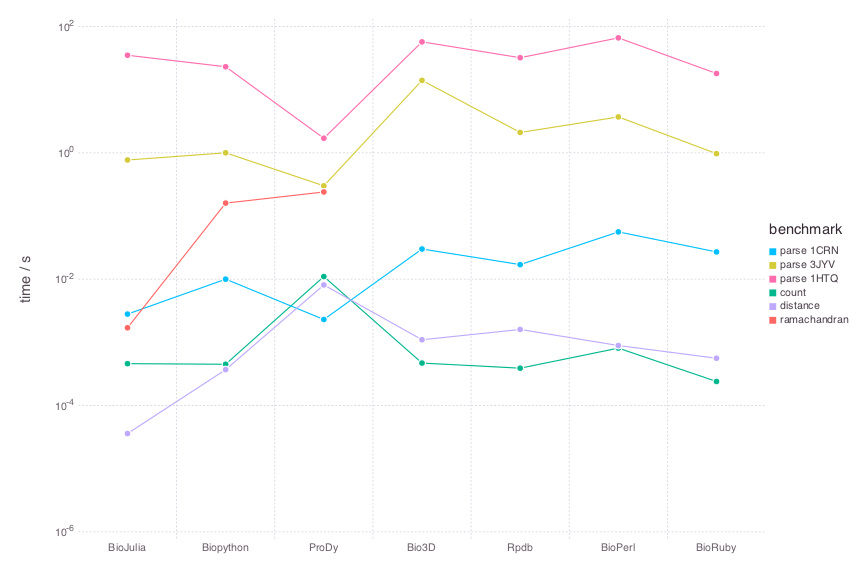
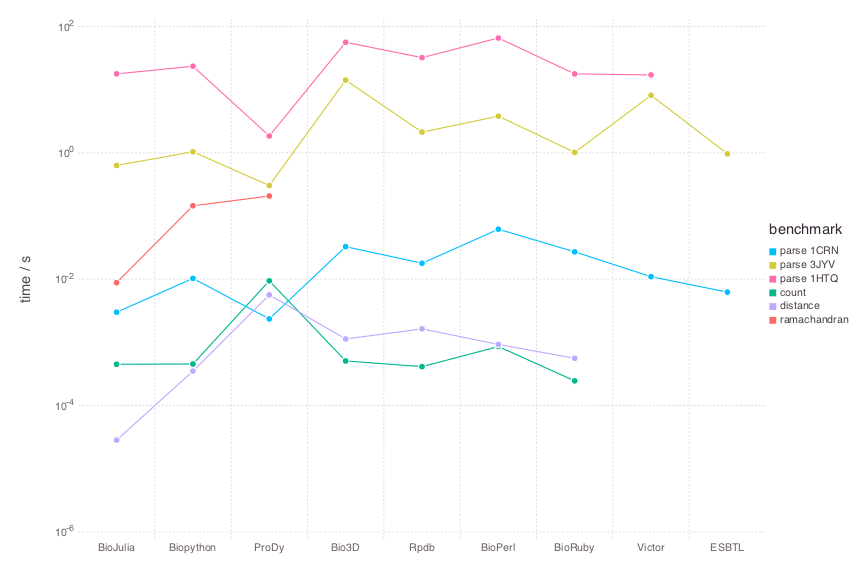
Victor and ESBTL parsing; tools dir; better automation

diff --git a/ESBTL/parse.cc b/ESBTL/parse.cc
@@ -1,0 +1,18 @@
+// Benchmark the parsing of a PDB file given as an argument
+
+#include <ESBTL/default.h>
+#include <iostream>
+#include <time.h>
+
+int main( int argc, char* argv[] ) {
+    std::string pdb_filepath = argv[1];
+    std::cout.setstate(std::ios_base::failbit);
+    clock_t tStart = clock();
+    ESBTL::PDB_line_selector sel;
+    std::vector<ESBTL::Default_system> systems;
+    ESBTL::All_atom_system_builder<ESBTL::Default_system> builder(systems, sel.max_nb_systems());
+    ESBTL::read_a_pdb_file(pdb_filepath, sel, builder, ESBTL::Accept_none_occupancy_policy<ESBTL::PDB::Line_format<> >());
+    clock_t tFinish = clock();
+    std::cout.clear();
+    printf("%.6f\n", (double)(tFinish - tStart)/CLOCKS_PER_SEC);
+}

diff --git a/Victor/parse.cc b/Victor/parse.cc
@@ -1,0 +1,22 @@
+// Benchmark the parsing of a PDB file given as an argument
+
+#include <PdbLoader.h>
+#include <Protein.h>
+#include <iostream>
+#include <time.h>
+
+using namespace Victor::Biopool;
+using namespace Victor;
+
+int main( int argc, char* argv[] ) {
+    string pdb_filepath = argv[1];
+    clock_t tStart = clock();
+    ifstream inFile( pdb_filepath.c_str() );
+    // See options at
+    // http://protein.bio.unipd.it/victor_doxygen/classVictor_1_1Biopool_1_1PdbLoader.html
+    PdbLoader pl(inFile, true, true, false, true, false, false, false, true);
+    Protein prot;
+    prot.load( pl );
+    clock_t tFinish = clock();
+    printf("%.6f\n", (double)(tFinish - tStart)/CLOCKS_PER_SEC);
+}

diff --git a/tools/mean.py b/tools/mean.py
@@ -1,0 +1,13 @@
+# Calculate the mean value in a file of numbers
+
+import sys
+import numpy as np
+
+in_file = open(sys.argv[1])
+vals = []
+for line in in_file:
+    vals.append(float(line))
+in_file.close()
+
+print(np.mean(vals))
+

diff --git a/README.md b/README.md
@@ -1,6 +1,6 @@
 # PDB benchmarks
 
-Open source software to parse [Protein Data Bank](http://www.rcsb.org/pdb/home/home.do) (PDB) files and manipulate protein structures exist in many languages, often as part of Bio* projects.
+Open source software packages to parse [Protein Data Bank](http://www.rcsb.org/pdb/home/home.do) (PDB) files and manipulate protein structures exist in many languages, often as part of Bio* projects.
 
 This repository aims to collate benchmarks for common tasks across various languages and packages. The collection of scripts may also be useful to get an idea how each package works.
 
@@ -21,7 +21,7 @@ Disclosure: I contributed the `Bio.Structure` module to BioJulia.
 
 [1] Gajda MJ, hPDB - Haskell library for processing atomic biomolecular structures in protein data bank format, *BMC Research Notes* 2013, **6**:483 | [link](http://bmcresnotes.biomedcentral.com/articles/10.1186/1756-0500-6-483)
 
-The PDB files can be downloaded to directory `pdbs` by running `source download_pdbs.sh` from this directory. If you have all the software installed you can use the script `run_benchmarks.sh` to run the benchmarks. The mean was then taken to obtain the values below.
+The PDB files can be downloaded to directory `pdbs` by running `source tools/download_pdbs.sh` from this directory. If you have all the software installed, and compiled where applicable, you can use the script `tools/run_benchmarks.sh` from this directory to run the benchmarks. The mean over a number of runs is taken for each benchmark to obtain the values below.
 
 Benchmarks were carried out on a 3.1 GHz Intel Core i7 processor with 16 GB 1867 MHz DDR3 RAM. The operating system was Mac OS X Yosemite 10.10.5. Time is the elapsed time.
 
@@ -35,6 +35,8 @@ Benchmarks were carried out on a 3.1 GHz Intel Core i7 processor with 16 GB 1867
 * [Rpdb](https://cran.r-project.org/web/packages/Rpdb/index.html) v2.2 running on R v3.2.2
 * [BioPerl](http://bioperl.org/index.html) v1.6.924 running on Perl v5.18.2
 * [BioRuby](http://bioruby.org/) v1.5.0 running on Ruby v2.0.0
+* [Victor](http://protein.bio.unipd.it/victor/index.php/Main_Page) v1.0 compiled with g++ v6.1.0
+* [ESBTL](http://esbtl.sourceforge.net/index.html) v1.0-beta01 compiled with g++ v6.1.0
 
 
 ## Comparison
@@ -43,26 +45,27 @@ Note that direct comparison between these times should be treated with caution, 
 
 * Parsing the PDB header
 * Accounting for disorder at both the atom and residue (point mutation) level
-* Forming a heirarchical model of the protein that makes access to specific residues, atoms etc. easier after parsing
+* Forming a heirarchical model of the protein that makes access to specific residues, atoms etc. easier and faster after parsing
+* Checking that the PDB format is adhered to at various levels of strictness
 
 Each package supports these to varying degrees.
 
-|                       | BioJulia     | Biopython    | ProDy        | Bio3D        | Rpdb         | BioPerl      | BioRuby      |
-| :-------------------- | :----------- | :----------- | :----------- | :----------- | :----------- | :----------- | :----------- |
-| Parse 1CRN / ms       | 2.8          | 10           | 2.3          | 30           | 17           | 56           | 27           |
-| Parse 3JYV / s        | 0.77         | 1.0          | 0.30         | 14           | 2.1          | 3.7          | 0.97         |
-| Parse 1HTQ / s        | 35           | 23           | 1.7          | 57           | 32           | 66           | 18           |
-| Count / ms            | 0.46         | 0.45         | 11           | 0.47         | 0.39         | 0.81         | 0.24         |
-| Distance / ms         | 0.036        | 0.37         | 8.1          | 1.1          | 1.6          | 0.89         | 0.56         |
-| Ramachandran / ms     | 1.7          | 160          | 240          | -            | -            | -            | -            |
-| Language              | Julia        | Python       | Python       | R            | R            | Perl         | Ruby         |
-| Parses header         | ✗            | ✓            | ✓            | ✓            | ✓            | ✗            | ✓            |
-| Heirarchichal parsing | ✓            | ✓            | ✓            | ✗            | ✗            | ✓            | ✓            |
-| Writes PDBs           | ✓            | ✓            | ✓            | ✓            | ✓            | ✓            | ✗            |
-| Superimposition       | ✗            | ✓            | ✓            | ✓            | ✗            | ✗            | ✗            |
-| Supports disorder     | ✓            | ✓            | ✗            | ✗            | ✗            | ✗            | ✗            |
-| PCA                   | ✗            | ✗            | ✓            | ✓            | ✗            | ✗            | ✗            |
-| License               | MIT          | Biopython    | MIT          | GPLv2        | GPL          | GPL/Artistic | Ruby         |
+|                       | BioJulia     | Biopython    | ProDy        | Bio3D        | Rpdb         | BioPerl      | BioRuby      | Victor       | ESBTL        |
+| :-------------------- | :----------- | :----------- | :----------- | :----------- | :----------- | :----------- | :----------- | :----------- | :----------- |
+| Parse 1CRN / ms       | 3.0          | 10           | 2.4          | 33           | 18           | 62           | 27           | 11           | 6.2          |
+| Parse 3JYV / s        | 0.63         | 1.0          | 0.30         | 14           | 2.1          | 3.8          | 1.0          | 8.1          | 0.96         |
+| Parse 1HTQ / s        | 18           | 23           | 1.8          | 56           | 32           | 66           | 18           | 17           | -            |
+| Count / ms            | 0.45         | 0.45         | 9.4          | 0.51         | 0.41         | 0.86         | 0.25         | -            | -            |
+| Distance / ms         | 0.028        | 0.35         | 5.6          | 1.1          | 1.6          | 0.93         | 0.56         | -            | -            |
+| Ramachandran / ms     | 8.8          | 150          | 210          | -            | -            | -            | -            | -            | -            |
+| Language              | Julia        | Python       | Python       | R            | R            | Perl         | Ruby         | C++          | C++          |
+| Parses header         | ✗            | ✓            | ✓            | ✓            | ✓            | ✗            | ✓            | ✓            | ✗            |
+| Heirarchichal parsing | ✓            | ✓            | ✓            | ✗            | ✗            | ✓            | ✓            | ✓            | ✓            |
+| Supports disorder     | ✓            | ✓            | ✗            | ✗            | ✗            | ✗            | ✗            | ✗            | ✓            |
+| Writes PDBs           | ✓            | ✓            | ✓            | ✓            | ✓            | ✓            | ✗            | ✓            | ✓            |
+| Superimposition       | ✗            | ✓            | ✓            | ✓            | ✗            | ✗            | ✗            | ✗            | ✗            |
+| PCA                   | ✗            | ✗            | ✓            | ✓            | ✗            | ✗            | ✗            | ✗            | ✗            |
+| License               | MIT          | Biopython    | MIT          | GPLv2        | GPL          | GPL/Artistic | Ruby         | GPLv3        | GPLv3        |
 
 Benchmarks as a plot:
 
@@ -78,7 +81,7 @@ Benchmarks as a plot:
 ## Plans
 
 * Finish Ramachandran scripts for remaining languages.
-* Test BioJava, hPDB, one or more C++ libraries and possibly others.
+* Test BioJava, hPDB, possibly others.
 * Run methods on the whole of the PDB to look at how they deal with errors.
 
 
@@ -86,3 +89,4 @@ Benchmarks as a plot:
 
 * A list of PDB parsing packages, particularly in C/C++, can be found [here](http://bioinf.org.uk/software/bioplib/libraries/).
 * The Biopython [documentation](http://biopython.org/wiki/The_Biopython_Structural_Bioinformatics_FAQ) has a useful discussion on disorder at the atom and residue level.
+* Sets of utility scripts exist including [pdbtools](https://github.com/harmslab/pdbtools), [pdb-tools](https://github.com/JoaoRodrigues/pdb-tools) and [PDBFixer](https://github.com/pandegroup/pdbfixer).

diff --git a/Victor/README.md b/Victor/README.md
@@ -1,0 +1,2 @@
+VICTOR_ROOT needs to be set as the Victor root directory.
+Compile with `make clean` then `make`.

diff --git a/ESBTL/README.md b/ESBTL/README.md
@@ -1,0 +1,2 @@
+ESBTL_DIR needs to be set as the ESBTL root directory.
+Compile with `cmake .` then `make`.
